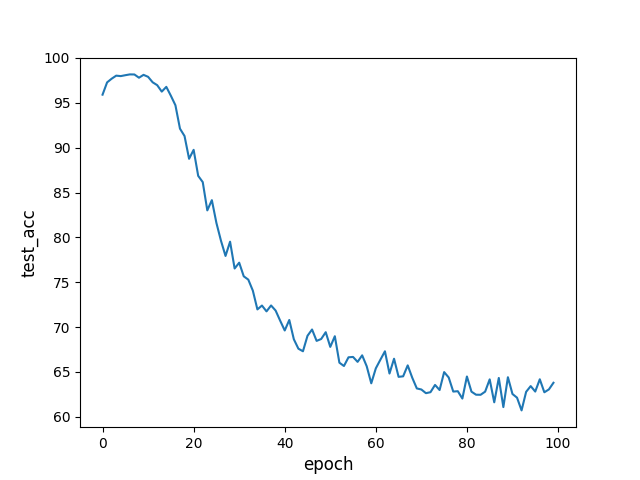
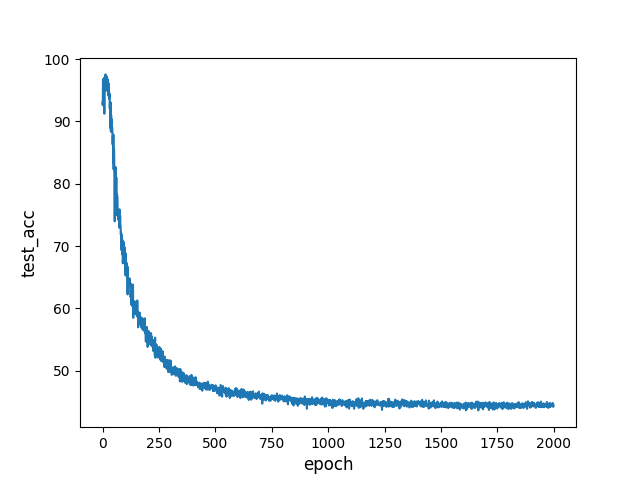
add latest experiments

diff --git a/analysis/grid_search.py b/analysis/grid_search.py
@@ -23,7 +23,7 @@ parser.add_argument(
 args = parser.parse_args()
 
 def get_path(p, a):
-    file_name = "{}_symmetric_{:.2f}_{:.2f}_1000.0_2.json".format(args.dataset, p, 1 - a)
+    file_name = "{}_smoothing_symmetric_{:.2f}_{:.2f}_1.json".format(args.dataset, p, 1 - a)
     return "{}/{}".format(data_dir, file_name)
 
 def get_data(p, a):
@@ -31,8 +31,8 @@ def get_data(p, a):
     data = json.load(open(path, 'r'))
     return data
 
-data_dir = "results/grid_search_lr/{}".format(args.dataset)
-plot_dir = "analysis/plots/performance/smoothing"
+data_dir = "results/grid_search/{}/smoothing".format(args.dataset)
+plot_dir = "analysis/plots/grid_search/smoothing2"
 p_grid = np.array([0.05 * i for i in range(3, 21)])
 a_grid = [0.05 * i for i in range(3, 21)]
 
@@ -64,23 +64,25 @@ if (args.graph == "fixed_a"):
 
 if (args.graph == "heatmap"):
     plt.figure(figsize=(3.5, 3))
-    epoch = 60
+    epoch = 400
     data = []
     scatter_data = [[], []]
     for a in reversed(a_grid):
         data.append([get_data(p, a)[args.y][epoch - 1] for p in p_grid])
         scatter_data[0].append(a - 0.025)
-        scatter_data[1].append(p_grid[np.argmax(data[-1])] - 0.025)
+        scatter_data[1].append(p_grid[np.argmin(data[-1])] - 0.025)
     data = np.array(data)[::-1,::-1].T
     plt.scatter(scatter_data[0], scatter_data[1], marker="+", color="red")
-    im = plt.imshow(data, cmap='viridis', extent=[0.1, 1.0, 0.1, 1.0], vmin=0, vmax=100, interpolation='none')
-    plt.colorbar(im,fraction=0.046, pad=0.04)
+    data[0][-1] = data[1][-1] 
+    im = plt.imshow(data, cmap='viridis', extent=[0.1, 1.0, 0.1, 1.0], vmin=0, vmax=2.303, interpolation='none')
+    # plt.colorbar(im,fraction=0.046, pad=0.04)
     
     plt.xlim(0.1, 1.0)
     plt.ylim(0.1, 1.0)
     plt.xlabel("a", fontsize=12)
     plt.ylabel("p", fontsize=12)
     plt.colorbar()
+    plt.tight_layout()
     plt.savefig('{}/smoothing_{}_{}.png'.format(plot_dir, args.graph, args.y))
     print('{}/smoothing_{}_{}.png'.format(plot_dir, args.graph, args.y))
 
@@ -91,7 +93,7 @@ if (args.graph == "progress"):
     completed = sum([sum(d) for d in data])
     total = sum([len(d) for d in data])
     print("{} / {} Experiments Completed".format(completed, total)) 
-    print("{:.2f} %".format(100. * completed / total))  
+    print("{:.2f} %".format(100. * completed / total)) 
     plt.imshow(data, cmap='Blues', extent=[0.15, 1.0, 0.15, 1.0])
     plt.xlabel("p", fontsize=12)
     plt.ylabel("a", fontsize=12)

diff --git a/analysis/performance.py b/analysis/performance.py
@@ -35,6 +35,7 @@ def get_data(a, p, seed):
     data = json.load(open(path, 'r'))
     return data
 
+save_file = ''
 epoch = 99
 
 if (args.task == 'stats'):
@@ -45,6 +46,7 @@ if (args.task == 'stats'):
         # print(data)
         print("clean rate: {}, {}: {:.2f}+-{:.2f}".format(clean_rate, args.y, np.mean(data), np.std(data)))
 elif (args.task == 'curve'):
+    save_file = '{}/{}_{}_{}.png'.format(plot_dir, args.task, args.y, args.method)
     clean_rate = 0.5
     
     data = get_data(clean_rate, 0.11, 2)[args.y]
@@ -52,3 +54,4 @@ elif (args.task == 'curve'):
     plt.xlabel("epoch", fontsize=12)
     plt.ylabel("{}".format(args.y), fontsize=12)
     plt.savefig('{}/{}_{}_{}.png'.format(plot_dir, args.task, args.y, args.method))
+print(save_file)
